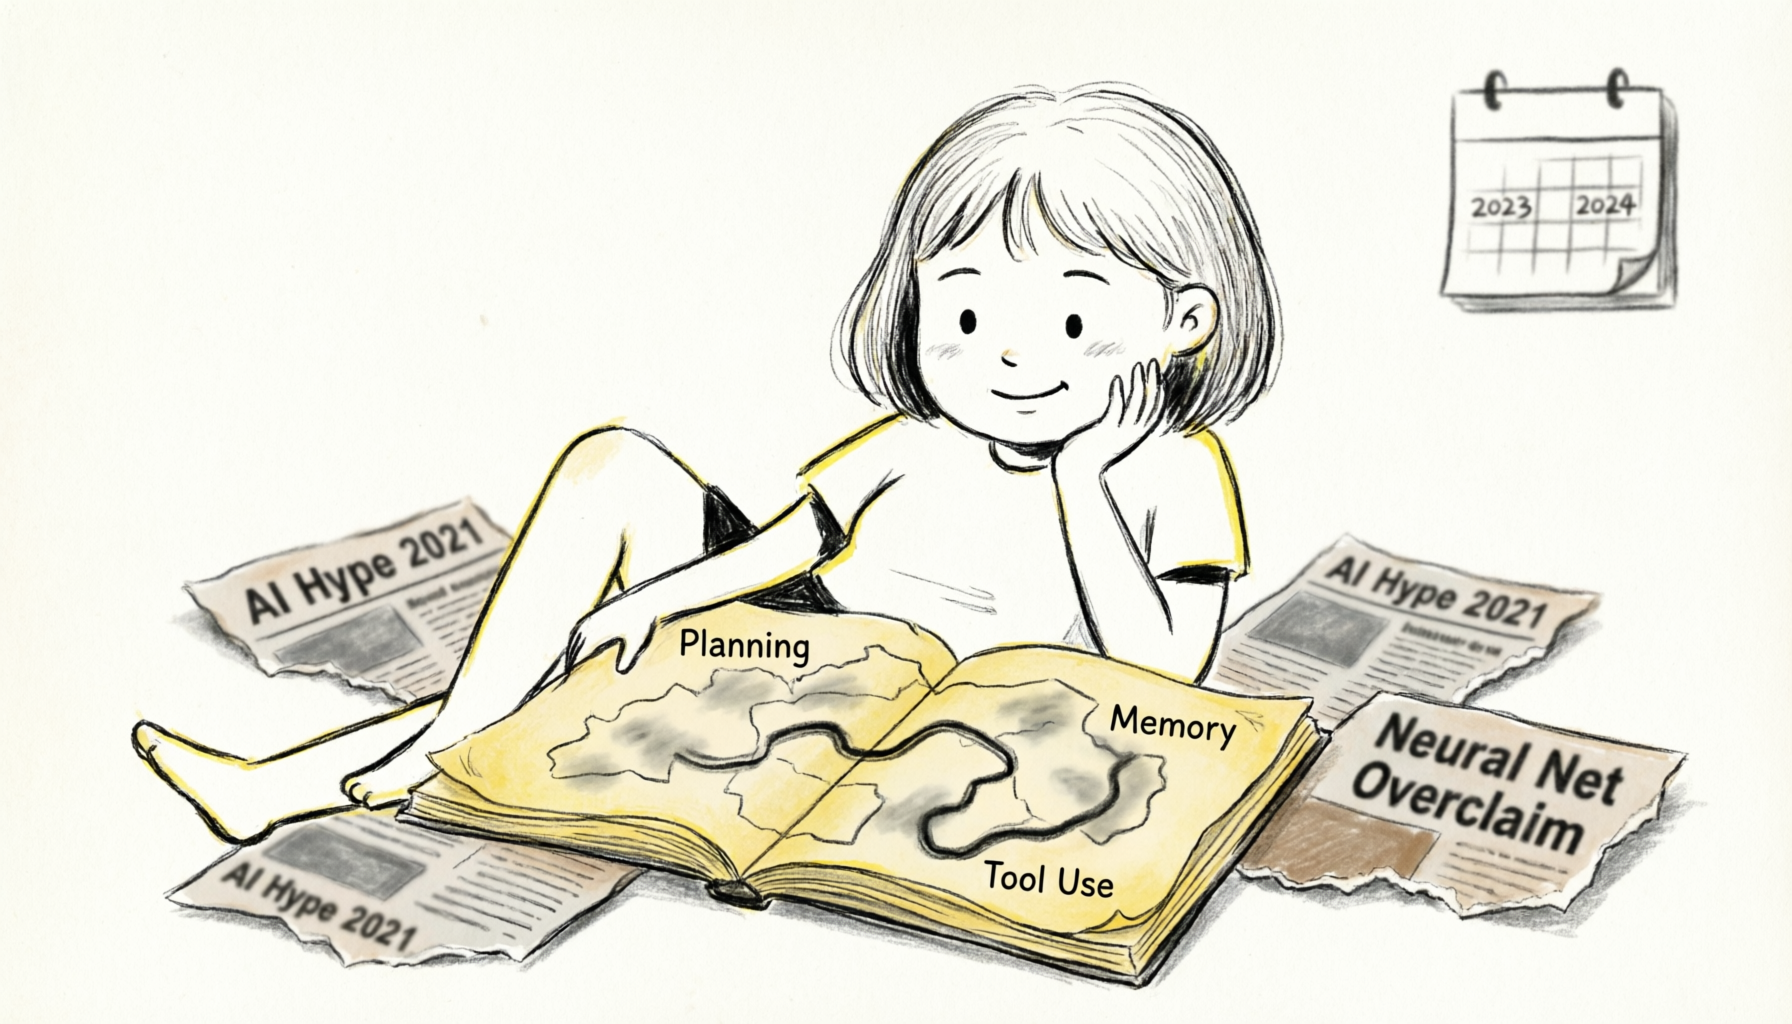
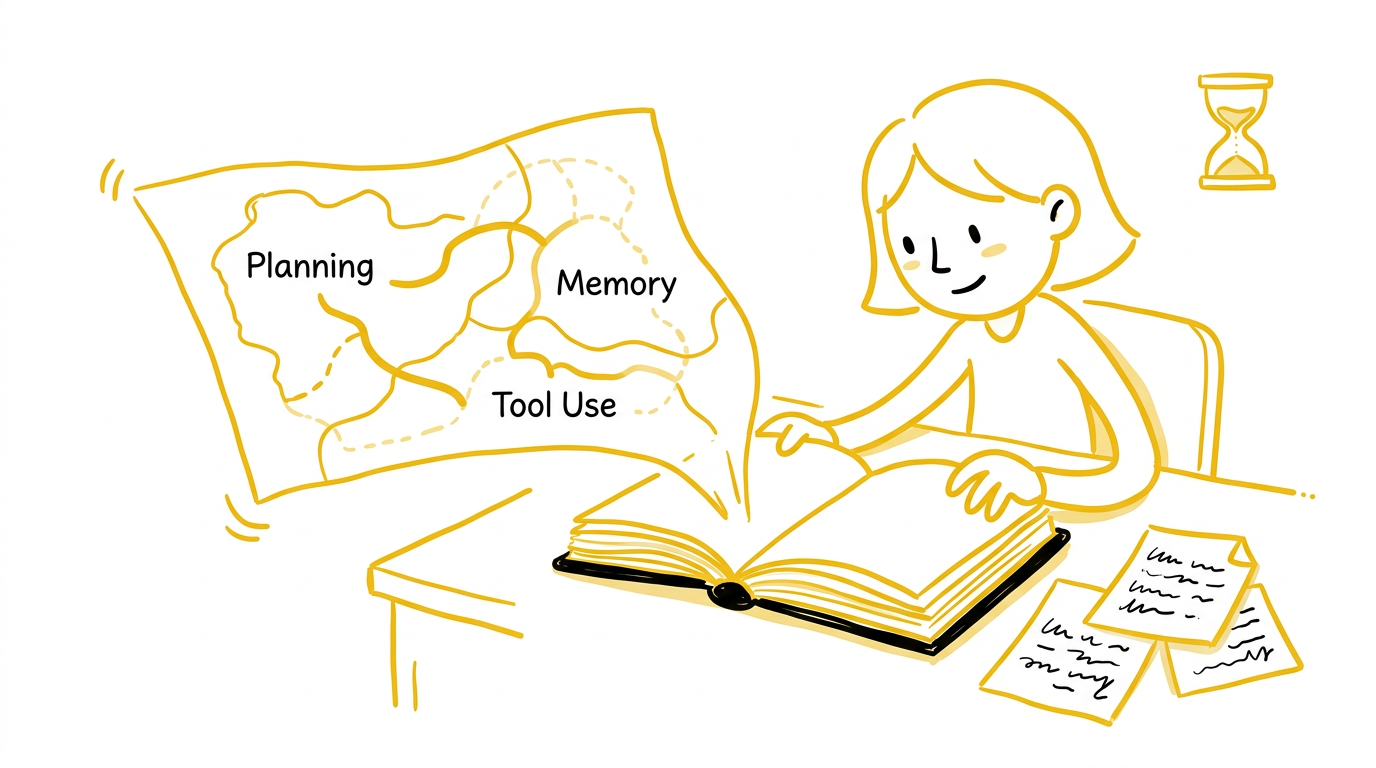
fix title, ending, and cover for Lilian Weng re-reading blog
- Title: more informative, less clickbaity
- Ending: autonomous is still the destination, collaboration is the bridge
- Cover: regenerated to fix repetitive newspaper text

🤖 Generated with [Qoder][https://qoder.com]

diff --git a/src/content/posts/Reread-LilianWeng-Agent-2026.md b/src/content/posts/Reread-LilianWeng-Agent-2026.md
@@ -1,5 +1,5 @@
 ---
-title: "三年后，我重新打开了那篇文章"
+title: "2026 重读 Lilian Weng：Agent 的三年与那张未老的地图"
 published: 2026-05-18
 description: "2023 年 6 月，Lilian Weng 写下了「LLM Powered Autonomous Agents」。三年后重读，99% 的 AI 文章已成废墟，这篇不是——她画下的地图，至今还在指引方向。"
 image: "/gallery/cover/reread-lilianweng-agent.png"
@@ -70,14 +70,14 @@ Lilian 在 2023 年就看到了这个矛盾。她写的不是"现在的模型还
 
 **Multi-agent 编排从概念变成了工程现实。** 原文完全没有讨论多个 agent 之间的协作——这在 2023 年还只是学术实验室里的玩具。但 Claude Code 的 subagent、CrewAI 的角色编排、AutoGen 的多轮对话，都已经在生产环境里跑起来了。这个维度的核心问题其实是 Memory 的延伸：agent 之间如何共享上下文、如何避免重复劳动、如何合并结果。Lilian 的框架不需要大改就能容纳它——Memory 不只是"agent 怎么记"，也包括"agent 之间怎么通信"。
 
-**从 Autonomous 到 Collaborative 的范式转移。** 这是最大的变化，也是 Lilian 的标题在今天读起来最需要重新审视的地方。2023 年的 agent 叙事是"全自主"——给它目标，它自己搞定一切。三年实践证明，这个叙事在工程上失败了。AutoGPT 死了，BabyAGI 沉寂了，"autonomous"这个词在产品宣传里越来越少见。取而代之的是人机协作：agent 做粗活，人做决策；agent 提方案，人做选择；agent 跑测试，人看结果。这不是退步，是对 Lilian 写的那个可靠性问题的诚实回应——既然自然语言接口天然不可靠，那就把人放回环路里。Human-in-the-loop 不是"autonomous"的反面，是她写的三个挑战指向的必然归途。
+**从 Autonomous 到 Human-in-the-loop：不是转向，是攀爬。** 2023 年的 agent 叙事是"全自主"——给它目标，它自己搞定一切。三年实践证明，这个叙事在工程上还不够成熟。AutoGPT 死了，BabyAGI 沉寂了，"autonomous"这个词在产品宣传里让位给了更务实的表述。取而代之的是人机协作：agent 做粗活，人做决策；agent 提方案，人做选择；agent 跑测试，人看结果。但不要误读这个变化——这不是方向的偏转，而是路径上的必经之站。Lilian 写的那个可靠性问题挡在前面，人机协作是翻山之前的大本营，不是换了目的地。
 
 ## 一张不需要重绘的地图
 
-如果这篇文章今天重写，标题大概会从「LLM Powered **Autonomous** Agents」变成「LLM Powered **Collaborative** Agents」。
+如果这篇文章今天重写，标题不需要改。
 
-但正文不需要大改。
+Autonomous 仍然是终点。三年的实践没有动摇"让 agent 自主完成复杂任务"这个方向——Devin 尝试全自主开发，Claude Code 的 subagent 在后台独立跑测试，OpenAI 的 Operator 直接操作浏览器。人类还在环路里，不是因为"协作"是更好的哲学，而是因为 Lilian 写下的那三道坎还没有被翻过去。人机协作是通往自主的桥梁，不是目的地。当可靠性问题被攻克、长程规划能力成熟，agent 会自然而然地走向 autonomous——就像 Lilian 在 2023 年就预见的那样。
 
-框架还在，挑战还在，三根柱子撑起的结构还在。具体的路标换了——ReAct 留下了，ToT 淡出了；HNSW 还在，LSH 退场了；Toolformer 被原生的 function calling 取代了，但 Tool Use 的方向比任何时候都更正确。这些是地图上的道路更替，不是地图本身的重绘。
+所以正文也不需要大改。框架还在，挑战还在，三根柱子撑起的结构还在。具体的路标换了——ReAct 留下了，ToT 淡出了；HNSW 还在，LSH 退场了；Toolformer 被原生的 function calling 取代了，但 Tool Use 的方向比任何时候都更正确。这些是地图上的道路更替，不是地图本身的重绘。
 
 一个框架三年不需要大改。在 AI 领域——这个以月为单位衡量范式迁移的领域——这大概是最高的赞美。
